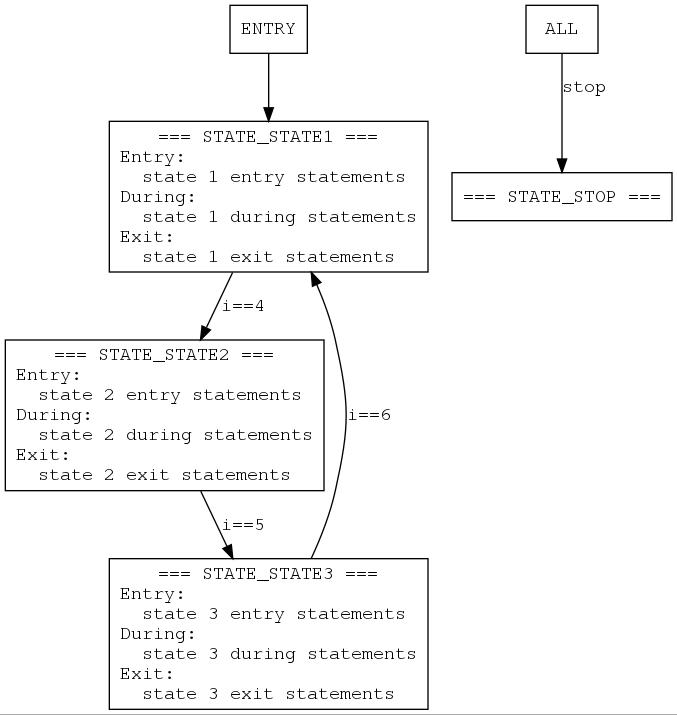
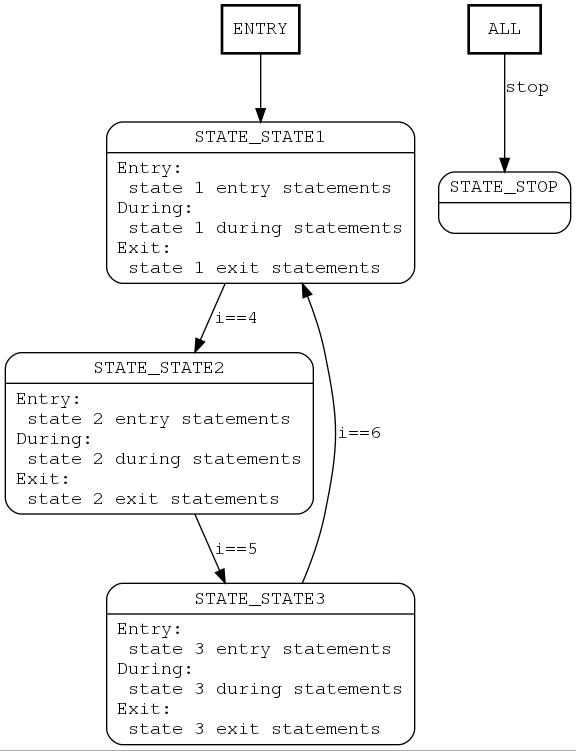
updated graph based on latest fsm_graph build

Changed region(s): [[0.0, 0.0, 1.0, 1.0], [0.7812, 0.3077, 0.9688, 0.3385], [0.9375, 0.0308, 0.9688, 0.0615]]

diff --git a/main.c b/main.c
@@ -139,7 +139,9 @@ void fsm_step(void){
         END_STATE;
 
         BEGIN_STATE(STATE_STOP);
-            stop = 0;
+            BEGIN_ENTRY;
+                stop = 0;
+            END_ENTRY;
         END_STATE;
 
     END_FSM;

diff --git a/readme.md b/readme.md
@@ -42,14 +42,14 @@ The file generated by script is the following:
 
 ```
 digraph G {
-    node [shape=box,fontname=courier];
-    ENTRY [label="ENTRY"];
+    node [shape=Mrecord,fontname=courier];
+    ENTRY [shape=box,style=bold,label="ENTRY"];
     ENTRY -> STATE_STATE1;
-    STATE_STATE1 [label="=== STATE_STATE1 ===\nEntry:\l  state 1 entry statements\lDuring:\l  state 1 during statements\lExit:\l  state 1 exit statements\l"];
-    STATE_STATE2 [label="=== STATE_STATE2 ===\nEntry:\l  state 2 entry statements\lDuring:\l  state 2 during statements\lExit:\l  state 2 exit statements\l"];
-    STATE_STATE3 [label="=== STATE_STATE3 ===\nEntry:\l  state 3 entry statements\lDuring:\l  state 3 during statements\lExit:\l  state 3 exit statements\l"];
-    STATE_STOP [label="=== STATE_STOP ===\n"];
-    ALL [label="ALL"];
+    STATE_STATE1 [label="{STATE_STATE1|Entry:\l  state 1 entry statements\lDuring:\l  state 1 during statements\lExit:\l  state 1 exit statements\l}"];
+    STATE_STATE2 [label="{STATE_STATE2|Entry:\l  state 2 entry statements\lDuring:\l  state 2 during statements\lExit:\l  state 2 exit statements\l}"];
+    STATE_STATE3 [label="{STATE_STATE3|Entry:\l  state 3 entry statements\lDuring:\l  state 3 during statements\lExit:\l  state 3 exit statements\l}"];
+    STATE_STOP [label="{STATE_STOP|}"];
+    ALL [shape=box,style=bold,label="ALL"];
     ALL -> STATE_STOP [fontname=courier,label="stop"];
     STATE_STATE1 -> STATE_STATE2 [fontname=courier,label="i==4"];
     STATE_STATE2 -> STATE_STATE3 [fontname=courier,label="i==5"];
@@ -108,6 +108,8 @@ void fsm_init(void){
 void fsm_step(void){
 
     BEGIN_EVENT(stop,STATE_STOP);
+        // stop all
+        printf("Stop all\n");
     END_EVENT;
     
     BEGIN_FSM;
@@ -115,23 +117,23 @@ void fsm_step(void){
         BEGIN_STATE(STATE_STATE1);
 
             BEGIN_ENTRY;
-                // state 1 entry
+                // state 1 entry statements
                 printf("Entry STATE_STATE1 i=%u\n",i);
             END_ENTRY;
 
             BEGIN_DURING;
-                // state 1 during
+                // state 1 during statements
                 i++;
                 printf("During STATE_STATE1 i=%u\n",i);
             END_DURING;
             
             BEGIN_EVENT(i==4,STATE_STATE2);
-                // state 1 event
+                // state 1 event statements
                 printf("Event STATE_STATE1 i=%u\n",i);
             END_EVENT;
             
             BEGIN_EXIT;
-                // state 1 exit
+                // state 1 exit statements
                 printf("Exit STATE_STATE1 i=%u\n",i);
                 i = 0;
             END_EXIT;
@@ -141,67 +143,57 @@ void fsm_step(void){
         BEGIN_STATE(STATE_STATE2);
             
             BEGIN_ENTRY;
-                // state 2 entry
+                // state 2 entry statements
                 printf("Entry STATE_STATE2 i=%u\n",i);
             END_ENTRY;
             
             BEGIN_DURING;
-                // state 2 during
+                // state 2 during statements
                 i++;
                 printf("During STATE_STATE2 i=%u\n",i);
             END_DURING;
             
-            BEGIN_EVENT(i==5,STATE_STATE1);
-                // state 2 event 1
+            BEGIN_EVENT(i==5,STATE_STATE3);
+                // state 2 event 1 statements
                 printf("Event STATE_STATE2 i=%u\n",i);
             END_EVENT;
 
-            BEGIN_EVENT(stop,STATE_STOP);
-                // state 2 event 2
-                printf("Stop event\n");
-            END_EVENT;
-            
             BEGIN_EXIT;
-                // state 2 exit
+                // state 2 exit statements
                 i=0;
                 printf("Exit STATE_STATE2 i=%u\n",i);
             END_EXIT;
 
         END_STATE;
 
-        BEGIN_STATE(STATE_STATE2);
+        BEGIN_STATE(STATE_STATE3);
             
             BEGIN_ENTRY;
-                // state 2 entry
-                printf("Entry STATE_STATE2 i=%u\n",i);
+                // state 3 entry statements
+                printf("Entry STATE_STATE3 i=%u\n",i);
             END_ENTRY;
             
             BEGIN_DURING;
-                // state 2 during
+                // state 3 during statements
                 i++;
-                printf("During STATE_STATE2 i=%u\n",i);
+                printf("During STATE_STATE3 i=%u\n",i);
             END_DURING;
             
             BEGIN_EVENT(i==6,STATE_STATE1);
-                // state 2 event 1
-                printf("Event STATE_STATE2 i=%u\n",i);
-            END_EVENT;
-
-            BEGIN_EVENT(stop,STATE_STOP);
-                // state 2 event 2
-                printf("Stop event\n");
+                // state 3 event 1 statements
+                printf("Event STATE_STATE3 i=%u\n",i);
             END_EVENT;
             
             BEGIN_EXIT;
-                // state 2 exit
+                // state 3 exit statements
                 i=0;
-                printf("Exit STATE_STATE2 i=%u\n",i);
+                printf("Exit STATE_STATE3 i=%u\n",i);
             END_EXIT;
 
         END_STATE;
 
         BEGIN_STATE(STATE_STOP);
-
+            stop = 0;
         END_STATE;
 
     END_FSM;
